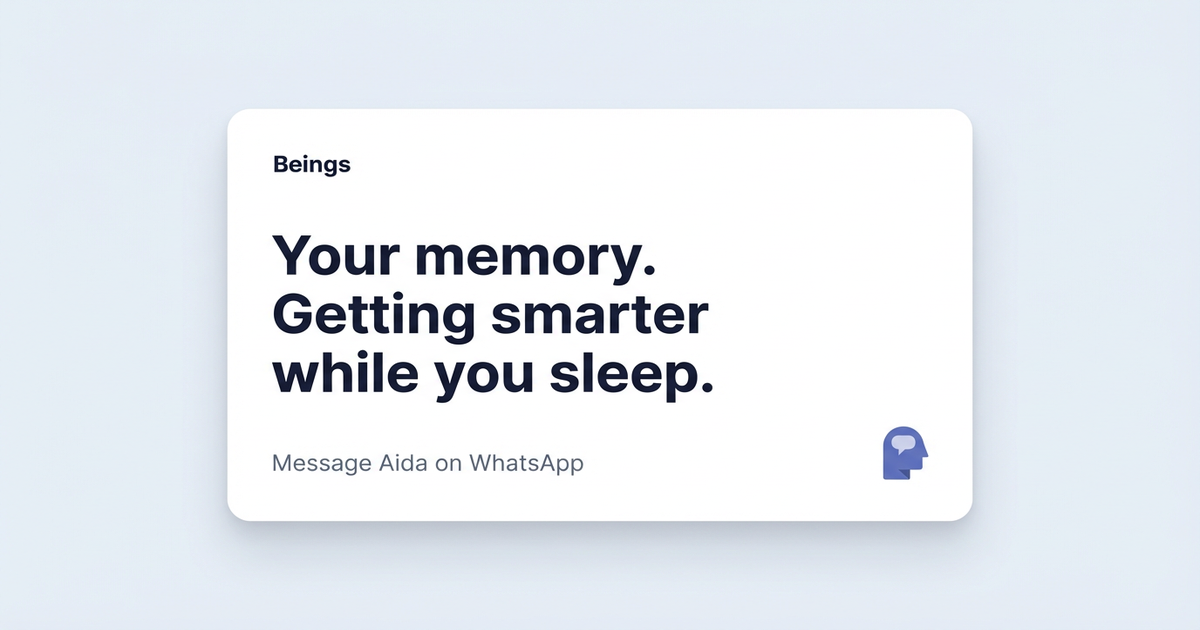
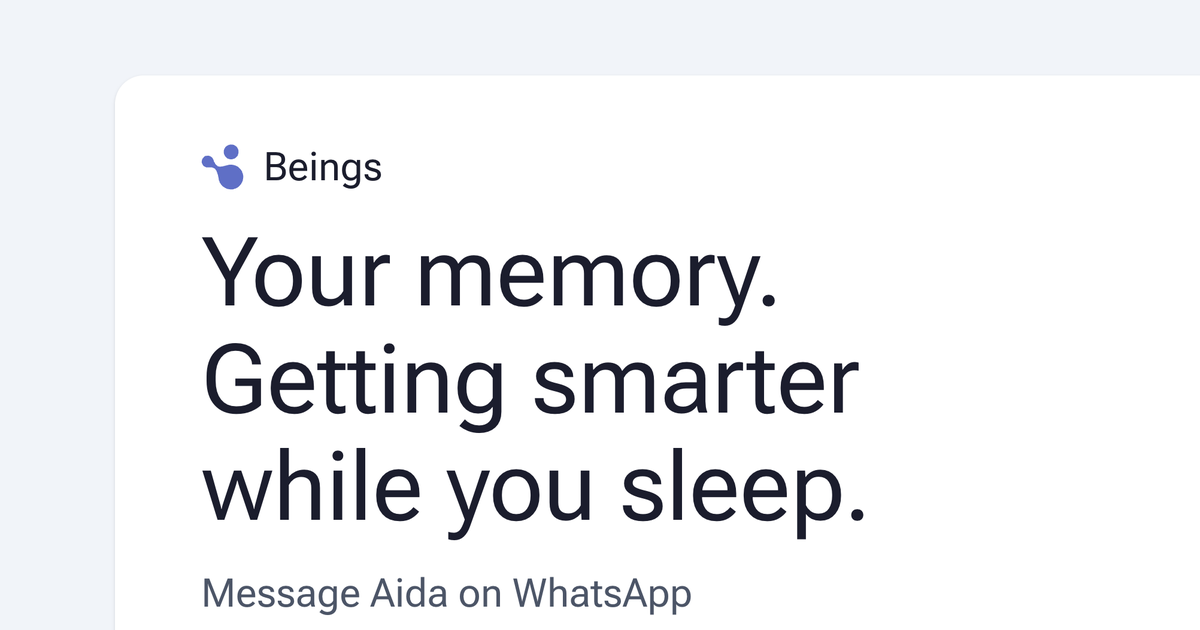
fix: rebuild OG image with M3 typography and safe-zone layout
HTML source at og-chat.html for future edits. Roboto Flex,
M3 Display Large scale, 80% content safe zone for mobile previews.

Made-with: Cursor

diff --git a/public/og-chat.html b/public/og-chat.html
@@ -1,0 +1,77 @@
+<!DOCTYPE html>
+<html lang="en">
+<head>
+  <meta charset="UTF-8">
+  <meta name="viewport" content="width=1200">
+  <link href="https://fonts.googleapis.com/css2?family=Roboto+Flex:wght@400;600;700&display=swap" rel="stylesheet">
+  <style>
+    * { margin: 0; padding: 0; box-sizing: border-box; }
+    body {
+      width: 1200px;
+      height: 630px;
+      background: #F0F4F9;
+      display: flex;
+      align-items: center;
+      justify-content: center;
+      font-family: 'Roboto Flex', 'Helvetica', sans-serif;
+      -webkit-font-smoothing: antialiased;
+    }
+    .card {
+      background: #FFFFFF;
+      border-radius: 24px;
+      box-shadow: 0 1px 3px rgba(0,0,0,0.08), 0 1px 2px rgba(0,0,0,0.06);
+      width: 1008px;
+      height: 504px;
+      padding: 56px 72px;
+      display: flex;
+      flex-direction: column;
+    }
+    .brand {
+      display: flex;
+      align-items: center;
+      gap: 12px;
+      font-size: 33px;
+      font-weight: 400;
+      color: #1A1D2E;
+      margin-bottom: 24px;
+    }
+    .brand svg {
+      width: 40px;
+      height: 40px;
+    }
+    .headline {
+      font-size: 80px;
+      font-weight: 400;
+      line-height: 1.12;
+      color: #1A1D2E;
+      letter-spacing: -0.25px;
+      flex: 1;
+      display: flex;
+      align-items: center;
+    }
+    .subtitle {
+      font-size: 33px;
+      font-weight: 400;
+      color: #4A5568;
+      margin-top: 24px;
+    }
+  </style>
+</head>
+<body>
+  <div class="card">
+    <div class="brand">
+      <svg xmlns="http://www.w3.org/2000/svg" viewBox="700 650 2600 2750" fill="#5B6FCC">
+        <path d="M681.658813,1880.360474 C665.070007,1843.093018 655.241577,1804.894531 653.244141,1764.875122 C648.134460,1662.502808 682.114136,1574.761353 752.970154,1501.122437 C791.593872,1460.981567 837.574829,1432.354126 890.858765,1416.059448 C937.939331,1401.662109 986.046814,1397.455444 1035.035645,1403.618530 C1104.030640,1412.298584 1165.036377,1439.033081 1217.709229,1484.361938 C1262.539429,1522.941772 1294.211670,1570.790771 1316.407471,1625.406006 C1332.933716,1666.070679 1350.205933,1706.439575 1367.656494,1746.718994 C1382.761597,1781.584717 1401.148560,1814.831909 1420.862427,1847.241577 C1436.417847,1872.814941 1452.695190,1898.059082 1470.304932,1922.245972 C1494.023926,1954.823975 1522.665039,1982.468140 1558.314209,2002.315674 C1588.521484,2019.133301 1621.048706,2028.272095 1655.121582,2031.517456 C1675.284912,2033.437866 1695.725464,2034.040894 1715.958618,2033.214722 C1738.862793,2032.279541 1761.729248,2029.532471 1784.514771,2026.770508 C1827.526123,2021.557129 1870.098633,2013.594238 1912.347656,2004.094849 C1942.867310,1997.232910 1973.248169,1989.692139 2003.514771,1981.779907 C2043.433838,1971.344482 2083.222168,1960.399658 2122.989014,1949.393677 C2160.950439,1938.887451 2199.541016,1931.533691 2238.603760,1927.039917 C2262.053223,1924.342285 2285.703125,1922.781982 2309.302246,1922.131714 C2345.266113,1921.140869 2381.326416,1921.134766 2417.030273,1926.277222 C2444.691162,1930.261353 2472.374023,1934.659912 2499.632080,1940.737061 C2540.294678,1949.802856 2579.651855,1963.255737 2617.938721,1979.849121 C2686.654297,2009.630371 2748.880371,2049.470947 2804.830078,2099.198242 C2862.861084,2150.775635 2910.932373,2210.450928 2949.172119,2277.945312 C2977.990967,2328.810791 3000.223389,2382.461182 3015.642822,2438.946289 C3027.251465,2481.470947 3035.326660,2524.614014 3038.269043,2568.549316 C3040.069336,2595.430420 3040.837402,2622.468750 3040.285889,2649.399902 C3039.322510,2696.443359 3033.193359,2742.929932 3022.574707,2788.860107 C2995.897949,2904.247559 2943.806396,3006.852539 2867.798340,3097.380371 C2811.516602,3164.414062 2744.909180,3219.154053 2668.266602,3261.436523 C2613.162842,3291.836182 2554.732178,3313.733398 2493.143799,3326.833496 C2464.461182,3332.934326 2435.488770,3337.488525 2406.110840,3338.564697 C2381.833740,3339.454346 2357.500977,3341.200684 2333.269775,3340.359619 C2302.370850,3339.287109 2271.379395,3337.291748 2240.742920,3333.283936 C2211.091309,3329.405273 2181.575439,3323.575439 2152.474365,3316.617920 C2109.378174,3306.314209 2067.695801,3291.406250 2027.346191,3272.976074 C1963.303223,3243.724121 1904.635010,3206.089355 1852.086548,3159.199951 C1784.941772,3099.286377 1731.500854,3028.861328 1691.928345,2947.993164 C1669.481812,2902.122070 1652.271729,2854.385254 1639.827515,2804.813477 C1630.397095,2767.247070 1624.976929,2729.093506 1619.706543,2690.818359 C1615.485107,2660.161133 1610.023804,2629.655518 1604.392822,2599.215820 C1596.091675,2554.341309 1585.120972,2510.068848 1572.096191,2466.335449 C1552.040283,2398.993896 1529.661987,2332.488525 1497.627563,2269.696045 C1476.627808,2228.533447 1451.371338,2190.360107 1417.770996,2158.113770 C1386.974243,2128.558350 1351.323975,2107.135254 1311.033447,2093.414551 C1270.667603,2079.668213 1228.942017,2074.029053 1186.441162,2072.493408 C1144.046509,2070.961426 1101.975342,2074.552246 1059.837524,2078.239990 C1016.327454,2082.047852 972.712585,2083.834961 929.419006,2075.938965 C880.896301,2067.089355 836.368225,2048.373535 796.133972,2019.765625 C745.598999,1983.833374 707.650330,1937.473145 681.658813,1880.360474z"/>
+        <path d="M2758.024658,1289.957886 C2749.461182,1324.494263 2737.490723,1356.858887 2721.450928,1387.709473 C2703.675537,1421.898926 2681.605469,1453.027710 2655.390869,1481.267212 C2621.967041,1517.272827 2583.312744,1546.375122 2539.680176,1568.812134 C2501.219482,1588.589722 2460.579590,1601.861938 2417.910889,1609.192871 C2386.885010,1614.523315 2355.645508,1616.188843 2324.334961,1614.826538 C2289.648438,1613.317383 2255.451172,1607.739136 2222.093018,1597.876587 C2165.845459,1581.246704 2114.712891,1554.744873 2069.569824,1517.178223 C1999.881836,1459.185913 1952.936523,1386.510254 1929.800781,1298.702393 C1915.714722,1245.241089 1912.473877,1191.059448 1919.470703,1136.233398 C1930.722290,1048.068359 1966.162476,970.880127 2025.201782,904.614014 C2077.577881,845.826660 2141.588623,804.594788 2216.616455,780.911865 C2253.582764,769.243164 2291.557129,763.167664 2330.506348,762.121033 C2369.743408,761.066772 2408.376709,764.539368 2446.343750,773.926697 C2502.591064,787.833862 2554.001221,812.275635 2600.301270,847.290649 C2655.264404,888.857178 2697.800781,940.707520 2727.656982,1002.701721 C2754.761963,1058.983765 2768.632080,1118.513794 2769.569580,1181.119141 C2770.116455,1217.646729 2766.047852,1253.565308 2758.024658,1289.957886z"/>
+      </svg>
+      Beings
+    </div>
+    <div class="headline">
+      Your memory.<br>
+      Getting smarter<br>
+      while you sleep.
+    </div>
+    <div class="subtitle">Message Aida on WhatsApp</div>
+  </div>
+</body>
+</html>
